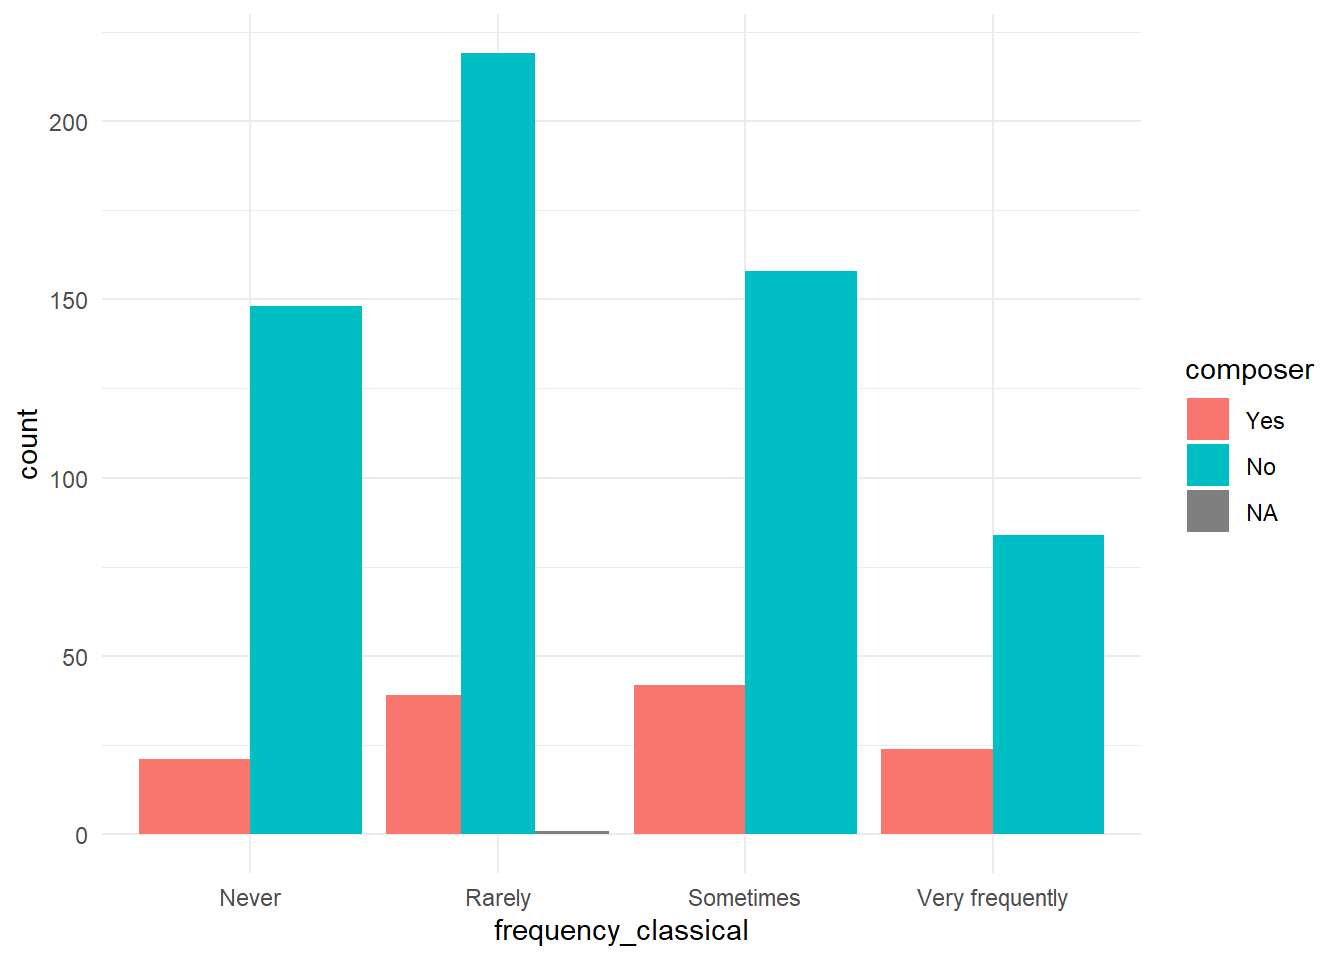
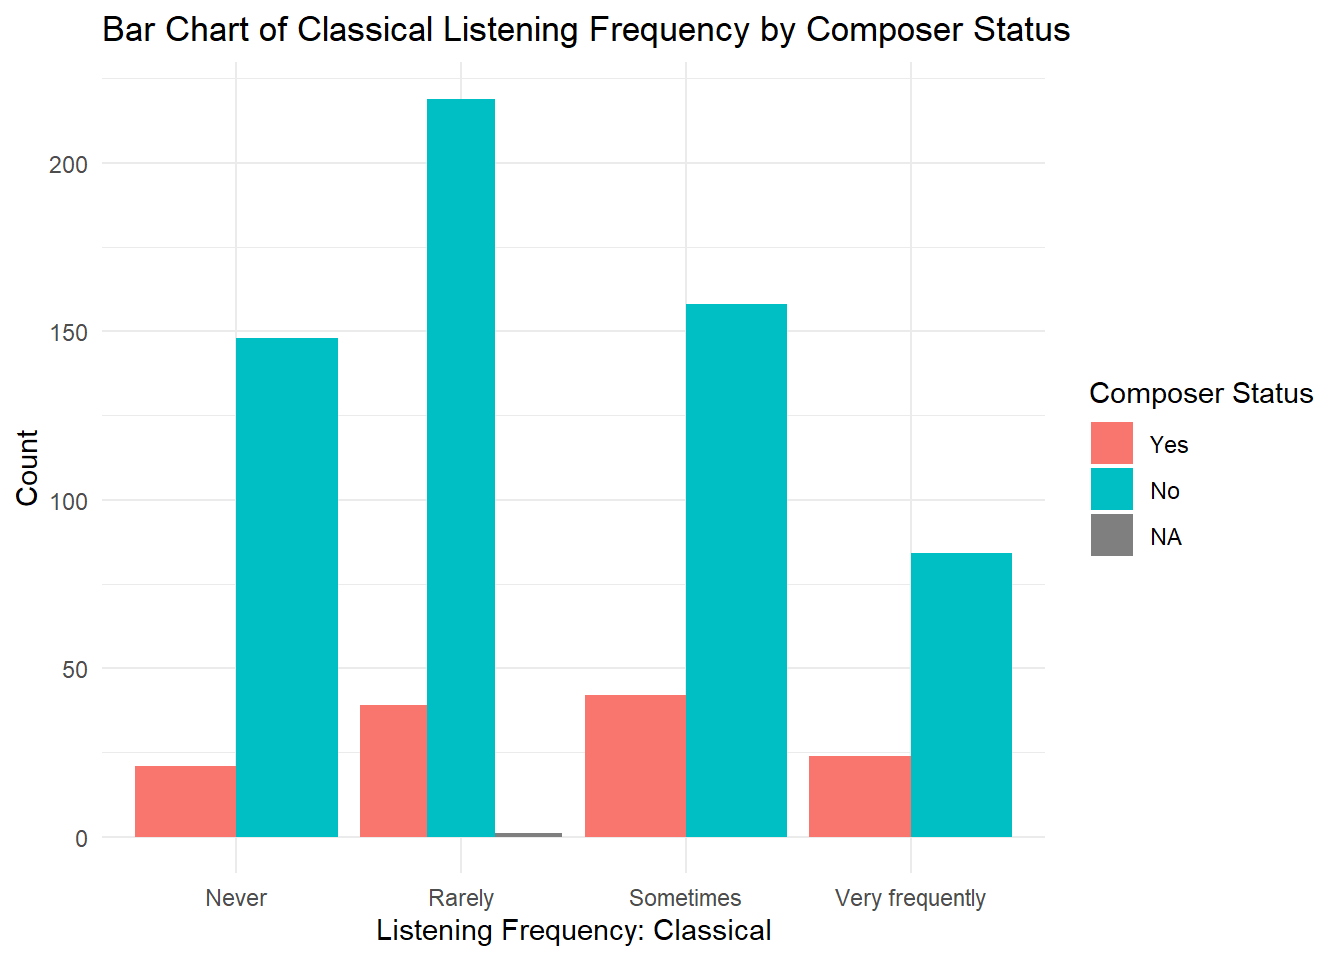
categorical plots clean-up

diff --git a/docs/Static_EDA.html b/docs/Static_EDA.html
@@ -533,8 +533,10 @@ permissions*                736   1 1.00e+00       1.00</code></pre>
 <p><strong>One-way:</strong></p>
 <div class="cell">
 <div class="code-copy-outer-scaffold"><div class="sourceCode cell-code" id="cb25"><pre class="sourceCode r code-with-copy"><code class="sourceCode r"><span id="cb25-1"><a href="#cb25-1" aria-hidden="true" tabindex="-1"></a><span class="fu">ggplot</span>(mxmh, <span class="fu">aes</span>(<span class="at">x=</span>frequency_classical)) <span class="sc">+</span></span>
-<span id="cb25-2"><a href="#cb25-2" aria-hidden="true" tabindex="-1"></a>  <span class="fu">geom_bar</span>() <span class="sc">+</span> </span>
-<span id="cb25-3"><a href="#cb25-3" aria-hidden="true" tabindex="-1"></a>  <span class="fu">theme_minimal</span>()</span></code></pre></div><button title="Copy to Clipboard" class="code-copy-button"><i class="bi"></i></button></div>
+<span id="cb25-2"><a href="#cb25-2" aria-hidden="true" tabindex="-1"></a>  <span class="fu">geom_bar</span>(<span class="at">fill=</span><span class="st">"#009e73"</span>) <span class="sc">+</span> </span>
+<span id="cb25-3"><a href="#cb25-3" aria-hidden="true" tabindex="-1"></a>  <span class="fu">labs</span>(<span class="at">title=</span><span class="st">"Bar Chart of Classical Listening Frequency"</span>,</span>
+<span id="cb25-4"><a href="#cb25-4" aria-hidden="true" tabindex="-1"></a>       <span class="at">x=</span><span class="st">"Listening Frequency: Classical"</span>, <span class="at">y =</span> <span class="st">"Count"</span>) <span class="sc">+</span></span>
+<span id="cb25-5"><a href="#cb25-5" aria-hidden="true" tabindex="-1"></a>  <span class="fu">theme_minimal</span>()</span></code></pre></div><button title="Copy to Clipboard" class="code-copy-button"><i class="bi"></i></button></div>
 <div class="cell-output-display">
 <div>
 <figure class="figure">
@@ -546,8 +548,11 @@ permissions*                736   1 1.00e+00       1.00</code></pre>
 <p><strong>Two-way:</strong></p>
 <div class="cell">
 <div class="code-copy-outer-scaffold"><div class="sourceCode cell-code" id="cb26"><pre class="sourceCode r code-with-copy"><code class="sourceCode r"><span id="cb26-1"><a href="#cb26-1" aria-hidden="true" tabindex="-1"></a><span class="fu">ggplot</span>(mxmh, <span class="fu">aes</span>(<span class="at">x=</span>frequency_classical)) <span class="sc">+</span></span>
-<span id="cb26-2"><a href="#cb26-2" aria-hidden="true" tabindex="-1"></a>  <span class="fu">geom_bar</span>(<span class="fu">aes</span>(<span class="at">fill=</span>composer), <span class="at">position=</span><span class="st">"dodge"</span>)<span class="sc">+</span> </span>
-<span id="cb26-3"><a href="#cb26-3" aria-hidden="true" tabindex="-1"></a>  <span class="fu">theme_minimal</span>()</span></code></pre></div><button title="Copy to Clipboard" class="code-copy-button"><i class="bi"></i></button></div>
+<span id="cb26-2"><a href="#cb26-2" aria-hidden="true" tabindex="-1"></a>  <span class="fu">geom_bar</span>(<span class="fu">aes</span>(<span class="at">fill=</span>composer), <span class="at">position=</span><span class="st">"dodge"</span>) <span class="sc">+</span></span>
+<span id="cb26-3"><a href="#cb26-3" aria-hidden="true" tabindex="-1"></a>  <span class="fu">labs</span>(<span class="at">title=</span><span class="st">"Bar Chart of Classical Listening Frequency by Composer Status"</span>,</span>
+<span id="cb26-4"><a href="#cb26-4" aria-hidden="true" tabindex="-1"></a>       <span class="at">x=</span><span class="st">"Listening Frequency: Classical"</span>, <span class="at">y =</span> <span class="st">"Count"</span>) <span class="sc">+</span></span>
+<span id="cb26-5"><a href="#cb26-5" aria-hidden="true" tabindex="-1"></a>  <span class="fu">scale_fill_discrete</span>(<span class="st">"Composer Status"</span>) <span class="sc">+</span></span>
+<span id="cb26-6"><a href="#cb26-6" aria-hidden="true" tabindex="-1"></a>  <span class="fu">theme_minimal</span>()</span></code></pre></div><button title="Copy to Clipboard" class="code-copy-button"><i class="bi"></i></button></div>
 <div class="cell-output-display">
 <div>
 <figure class="figure">
@@ -559,19 +564,19 @@ permissions*                736   1 1.00e+00       1.00</code></pre>
 </section>
 <section id="heatmap" class="level3">
 <h3 class="anchored" data-anchor-id="heatmap">Heatmap</h3>
-<p>A visualization of frequency density for a contingency table. Plotted on a monochromatic scale: lighter shading for lower frequency, darker shading for higher frequency.</p>
+<p>A visualization of frequency concentrations for a two-way contingency table. Not available for single-variable reporting.</p>
+<p>Plotted on a monochromatic scale: lighter shading for lower frequency, darker shading for higher frequency.</p>
 <div class="cell">
-<div class="code-copy-outer-scaffold"><div class="sourceCode cell-code" id="cb27"><pre class="sourceCode r code-with-copy"><code class="sourceCode r"><span id="cb27-1"><a href="#cb27-1" aria-hidden="true" tabindex="-1"></a><span class="do">##grab this from tab_two before pivot!!</span></span>
-<span id="cb27-2"><a href="#cb27-2" aria-hidden="true" tabindex="-1"></a>tab_two <span class="ot">&lt;-</span> <span class="fu">as.data.frame</span>(<span class="fu">table</span>(mxmh<span class="sc">$</span>music_effects, mxmh<span class="sc">$</span>while_working))</span>
-<span id="cb27-3"><a href="#cb27-3" aria-hidden="true" tabindex="-1"></a></span>
-<span id="cb27-4"><a href="#cb27-4" aria-hidden="true" tabindex="-1"></a><span class="fu">ggplot</span>(<span class="fu">as.data.frame</span>(tab_two), <span class="fu">aes</span>(<span class="at">x =</span> Var1, <span class="at">y=</span>Var2, <span class="at">fill=</span>Freq)) <span class="sc">+</span></span>
-<span id="cb27-5"><a href="#cb27-5" aria-hidden="true" tabindex="-1"></a>  <span class="fu">geom_tile</span>(<span class="at">color=</span><span class="st">"black"</span>) <span class="sc">+</span></span>
-<span id="cb27-6"><a href="#cb27-6" aria-hidden="true" tabindex="-1"></a>  <span class="co">#force an extreme monochrome scale</span></span>
-<span id="cb27-7"><a href="#cb27-7" aria-hidden="true" tabindex="-1"></a>  <span class="fu">scale_fill_gradient</span>(<span class="at">low=</span><span class="st">"white"</span>, <span class="at">high=</span><span class="st">"#006b4e"</span>)  <span class="sc">+</span></span>
-<span id="cb27-8"><a href="#cb27-8" aria-hidden="true" tabindex="-1"></a>  <span class="co">#use helpers to apply variable names:</span></span>
-<span id="cb27-9"><a href="#cb27-9" aria-hidden="true" tabindex="-1"></a>  <span class="fu">labs</span>(<span class="at">x =</span> <span class="fu">names</span>(vars_all[<span class="fu">which</span>(vars_all<span class="sc">==</span><span class="st">"music_effects"</span>)]),</span>
-<span id="cb27-10"><a href="#cb27-10" aria-hidden="true" tabindex="-1"></a>       <span class="at">y =</span> <span class="fu">names</span>(vars_all[<span class="fu">which</span>(vars_all<span class="sc">==</span><span class="st">"while_working"</span>)])) <span class="sc">+</span></span>
-<span id="cb27-11"><a href="#cb27-11" aria-hidden="true" tabindex="-1"></a>  <span class="fu">theme_minimal</span>()</span></code></pre></div><button title="Copy to Clipboard" class="code-copy-button"><i class="bi"></i></button></div>
+<div class="code-copy-outer-scaffold"><div class="sourceCode cell-code" id="cb27"><pre class="sourceCode r code-with-copy"><code class="sourceCode r"><span id="cb27-1"><a href="#cb27-1" aria-hidden="true" tabindex="-1"></a>tab_two <span class="ot">&lt;-</span> <span class="fu">as.data.frame</span>(<span class="fu">table</span>(mxmh<span class="sc">$</span>music_effects, mxmh<span class="sc">$</span>while_working))</span>
+<span id="cb27-2"><a href="#cb27-2" aria-hidden="true" tabindex="-1"></a></span>
+<span id="cb27-3"><a href="#cb27-3" aria-hidden="true" tabindex="-1"></a><span class="fu">ggplot</span>(<span class="fu">as.data.frame</span>(tab_two), <span class="fu">aes</span>(<span class="at">x =</span> Var1, <span class="at">y=</span>Var2, <span class="at">fill=</span>Freq)) <span class="sc">+</span></span>
+<span id="cb27-4"><a href="#cb27-4" aria-hidden="true" tabindex="-1"></a>  <span class="fu">geom_tile</span>(<span class="at">color=</span><span class="st">"black"</span>) <span class="sc">+</span></span>
+<span id="cb27-5"><a href="#cb27-5" aria-hidden="true" tabindex="-1"></a>  <span class="co">#force an extreme monochrome scale</span></span>
+<span id="cb27-6"><a href="#cb27-6" aria-hidden="true" tabindex="-1"></a>  <span class="fu">scale_fill_gradient</span>(<span class="at">low=</span><span class="st">"white"</span>, <span class="at">high=</span><span class="st">"#006b4e"</span>)  <span class="sc">+</span></span>
+<span id="cb27-7"><a href="#cb27-7" aria-hidden="true" tabindex="-1"></a>  <span class="co">#example of using helpers to apply variable names:</span></span>
+<span id="cb27-8"><a href="#cb27-8" aria-hidden="true" tabindex="-1"></a>  <span class="fu">labs</span>(<span class="at">x =</span> <span class="fu">names</span>(vars_all[<span class="fu">which</span>(vars_all<span class="sc">==</span><span class="st">"music_effects"</span>)]),</span>
+<span id="cb27-9"><a href="#cb27-9" aria-hidden="true" tabindex="-1"></a>       <span class="at">y =</span> <span class="fu">names</span>(vars_all[<span class="fu">which</span>(vars_all<span class="sc">==</span><span class="st">"while_working"</span>)])) <span class="sc">+</span></span>
+<span id="cb27-10"><a href="#cb27-10" aria-hidden="true" tabindex="-1"></a>  <span class="fu">theme_minimal</span>()</span></code></pre></div><button title="Copy to Clipboard" class="code-copy-button"><i class="bi"></i></button></div>
 <div class="cell-output-display">
 <div>
 <figure class="figure">
